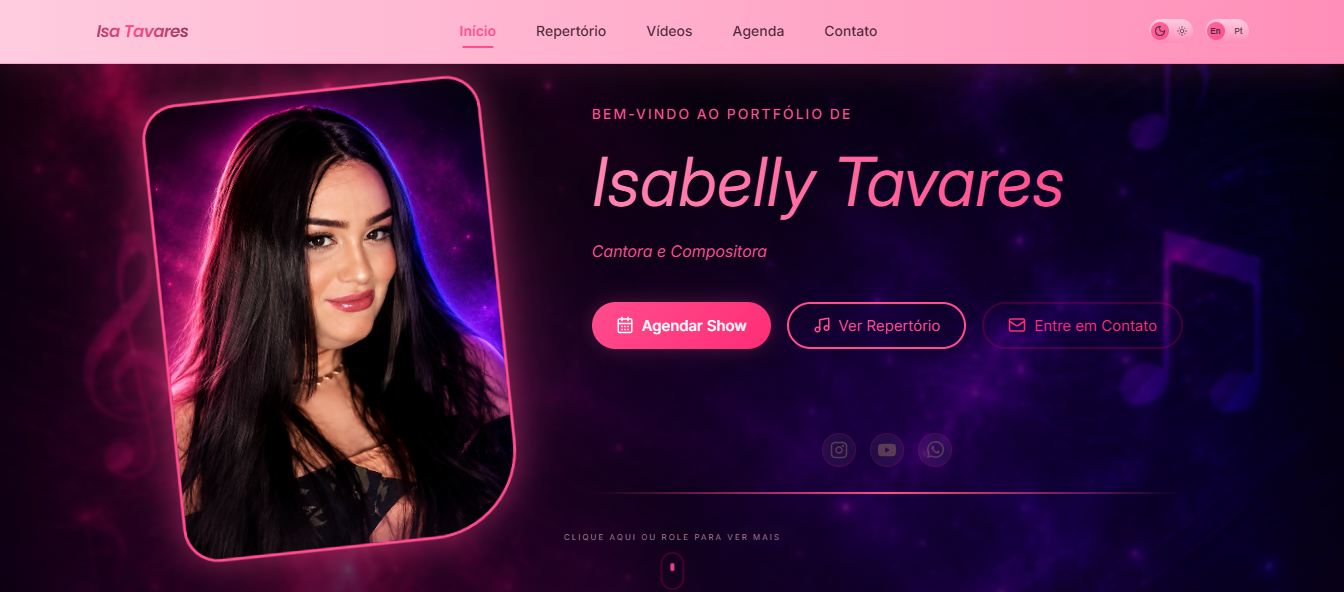
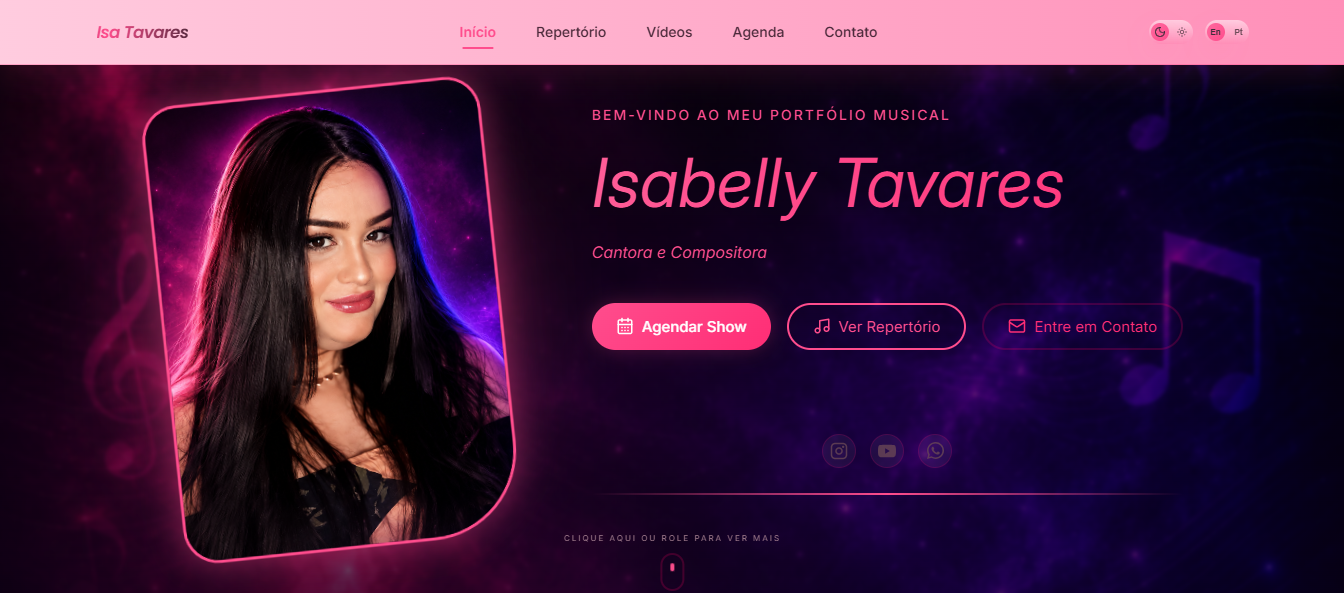
chore: replace vercel-action with official Vercel CLI in CD pipeline
- Remove amondnet/vercel-action@v25
- Install and use official vercel CLI via npm
- Add Node.js setup and npm ci before deploy
- Add .vercel to .gitignore
- Update README with custom domain production URL
- Keep VERCEL_TOKEN, VERCEL_ORG_ID and VERCEL_PROJECT_ID secrets

diff --git a/src/i18n/locales/pt-BR/index.ts b/src/i18n/locales/pt-BR/index.ts
@@ -25,7 +25,8 @@ const ptBR = {
   // Página Home
   home: {
     hero: {
-      greeting: 'Bem-vindo ao portfólio de',
+      greeting: 'Bem-vindo ao meu portfólio musical',
+      bio: 'Cantora e Compositora',
       cta_schedule: 'Agendar Show',
       cta_repertoire: 'Ver Repertório',
       cta_contact: 'Entre em Contato',

diff --git a/src/i18n/locales/en/index.ts b/src/i18n/locales/en/index.ts
@@ -22,7 +22,8 @@ const en = {
 
   home: {
     hero: {
-      greeting: 'Welcome to the portfolio of',
+      greeting: 'Welcome to my music portfolio',
+      bio: 'Singer and Songwriter',
       cta_schedule: 'Book a Show',
       cta_repertoire: 'View Repertoire',
       cta_contact: 'Get in Touch',

diff --git a/src/pages/Home/HeroSection.tsx b/src/pages/Home/HeroSection.tsx
@@ -251,7 +251,7 @@ export function HeroSection({ artist }: HeroSectionProps) {
                 lineHeight: '1.5',
               }}
             >
-              {artist.bio}
+              {t('home.hero.bio')}
             </p>
           </div>
           {/* BOTÕES */}

diff --git a/README.md b/README.md
@@ -23,7 +23,7 @@
 
 | | Link |
 |---|---|
-| 🎤 **Site** | [artist-showcase-ui.vercel.app](https://artist-showcase-ui.vercel.app) |
+| 🎤 **Site** | [isatavarescantora.vercel.app](https://isatavarescantora.vercel.app) |
 | ⚙ **API** | [artist-showcase-api.onrender.com](https://artist-showcase-api.onrender.com/api/health) |
 
 ---
@@ -402,14 +402,14 @@ Vídeos:
   <img src="https://raw.githubusercontent.com/willfelixd/artist-showcase-ui/main/.github/assets/modal-video.gif" alt="Modal de vídeo" width="700"/>
 </p>
 
-Painel Admin:
-<p>
-  <img src="https://raw.githubusercontent.com/willfelixd/artist-showcase-ui/main/.github/assets/painel-admin.png" alt="Painel Admin" width="700"/>
-</p>
-
 Acesso administrativo:
 <p>
   <img src="https://raw.githubusercontent.com/willfelixd/artist-showcase-ui/main/.github/assets/acesso-administrativo.png" alt="Tela de login administrativo" width="700"/>
+</p>
+
+Painel Admin:
+<p>
+  <img src="https://raw.githubusercontent.com/willfelixd/artist-showcase-ui/main/.github/assets/painel-admin.png" alt="Painel Admin" width="700"/>
 </p>
 
 </details>
